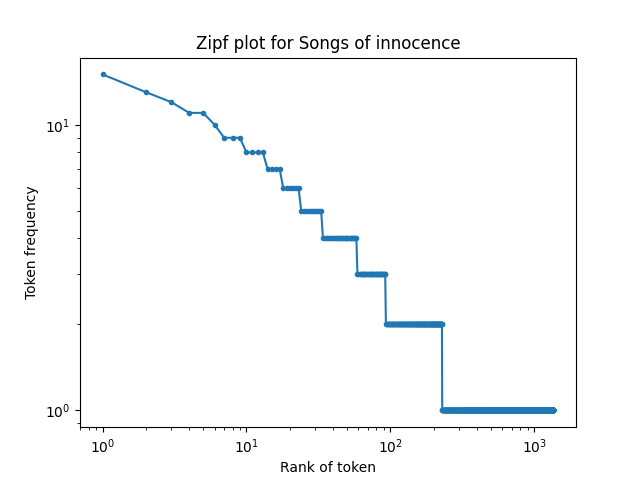
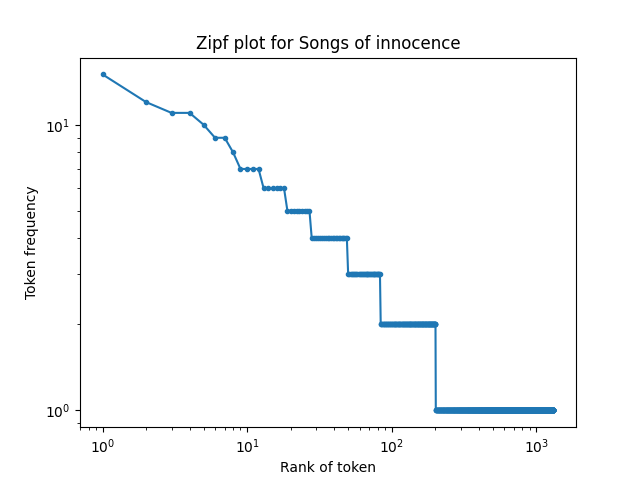
1 fixed

diff --git a/preprocessing.py b/preprocessing.py
@@ -4,18 +4,20 @@ import nlp_config as config
 import re
 
 
-def remove_stop_words(line: str, repeat: int = 1) -> str:
+def remove_stop_words(line: str, repeat: int = 1, keep_negations: bool = False) -> str:
     # return line
     words = word_tokenize(line)
     sw = stopwords.words('english')
     for word in words:
-        if (word.lower() in sw and word.lower() not in config.negations) or word.lower() in config.special_characters:
+        lower = word.lower()
+        if lower in config.special_characters or \
+                lower in sw or (not keep_negations and lower in config.negations):
             # we want to remove stopwords which are not negations (negations impact the sentiment)
-            words.remove(word)
+            words = list(filter(word.__ne__, words))
     result = ' '.join(words)
     if repeat > 0:
         # due to complex word structure, the stop words removal will be ran multiple times
-        result = remove_stop_words(result, repeat-1)
+        result = remove_stop_words(result, repeat - 1)
     return result
 
 
@@ -25,9 +27,9 @@ def only_first_and_last_words(book_: dict) -> dict:
         new_chapter = []
         for line in chapter:
             # removing stopwords, since they don't contribute to the sentiment
-            line_ = remove_stop_words(line) # run twice for better efficiency
+            line_ = remove_stop_words(line)  # run twice for better efficiency
             tokens = line_.split(' ')
-            new_chapter.append([tokens[0], tokens[len(tokens)-1]])
+            new_chapter.append([tokens[0], tokens[len(tokens) - 1]])
         retval[title] = new_chapter
     return retval
 
@@ -52,7 +54,7 @@ def preprocess(raw_book: str) -> dict:
                 # not uppercase - normal text
                 # some lines end with a number; remove the numbers
                 tokens = line_cleaned.split(' ')
-                if tokens[len(tokens)-1].isnumeric():
+                if tokens[len(tokens) - 1].isnumeric():
                     tokens.pop()  # remove last token
                 text_buffer.append(' '.join(tokens))
             chapters[chapter_name] = text_buffer
@@ -73,7 +75,7 @@ def book_to_verses(raw_book: str) -> list:
                 # not uppercase - normal text
                 # some lines end with a number; remove the numbers
                 tokens = line_cleaned.split(' ')
-                if tokens[len(tokens)-1].isnumeric():
+                if tokens[len(tokens) - 1].isnumeric():
                     tokens.pop()  # remove last token
                 text_buffer.append(' '.join(tokens))
         elif len(text_buffer):
@@ -88,12 +90,12 @@ def book_to_verses(raw_book: str) -> list:
     return verses
 
 
-def tokenize(book):
+def tokenize(book, keep_stopwords: bool = False):
     # break down a preprocessed book into words
     all_words = ""
     for title, chapter in book.items():
         for line in chapter:
-            newline = remove_stop_words(line)
+            newline = remove_stop_words(line, keep_stopwords)
             all_words += newline
     return word_tokenize(all_words)
 
@@ -103,12 +105,11 @@ def remove_non_ASCII(string: str) -> str:  # removes all non-ASCII characters fr
 
 
 def four_line_structure(book):
-
     book = only_first_and_last_words(book)
 
     counter = 0
     retval = []
-    
+
     lines = []
     all_lines = []
     for title, chapter in book.items():
@@ -117,7 +118,7 @@ def four_line_structure(book):
                 counter = 0
                 all_lines.append(lines)
                 lines = []
-                
+
             counter += 1
             lines.append(line[1])
     retval.append(all_lines)

diff --git a/1_most_frequent_words.py b/1_most_frequent_words.py
@@ -17,7 +17,7 @@ most_common_count = 30
 
 
 def most_frequent_words(book):
-    words = preprocessing.tokenize(book)
+    words = preprocessing.tokenize(book, True)
     return FreqDist(words)
 
 
@@ -34,9 +34,10 @@ def plot(path, data, title):
         plt.ion()
     data.plot(most_common_count, cumulative=False, title="Most frequent words " + title)
     if config.action == "save":
+        print('plotting to ' + path)
         plt.savefig(path)
         plt.ioff()
-    plt.close()
+        plt.close()
 
 
 def task1():
